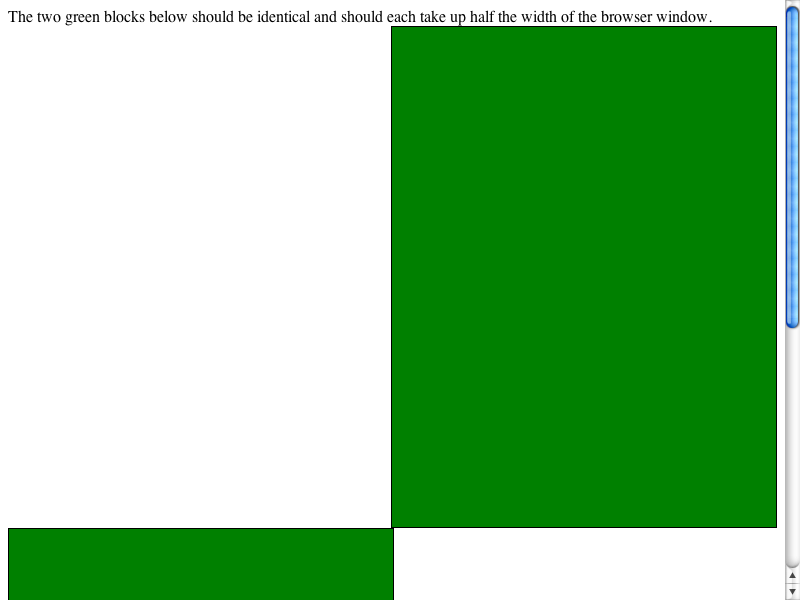
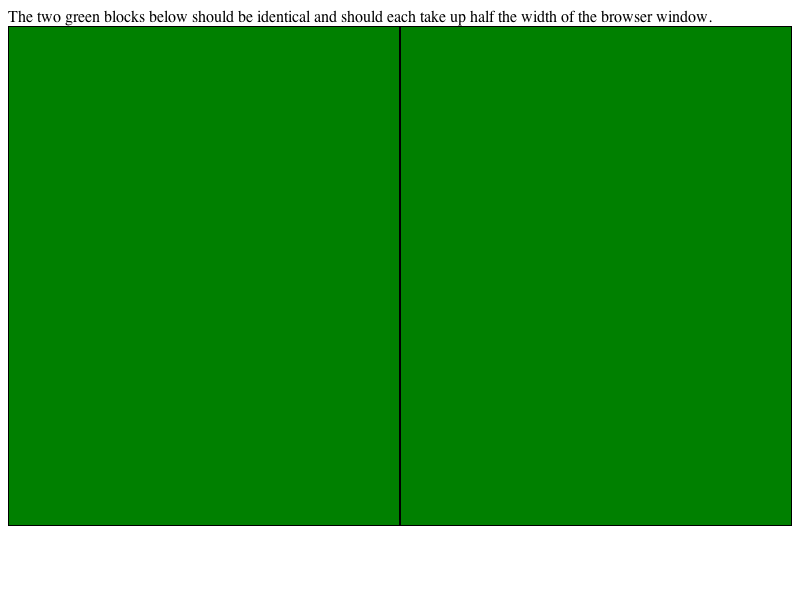
Update the test fast/overflow/004.html to make it match the test description and expected results. https://bugs.webkit.org/show_bug.cgi?id=31455
Patch by Kinuko Yasuda <kinuko@google.com> on 2009-11-19
Reviewed by Dan Bernstein.

* fast/overflow/004.html:
* platform/mac/fast/overflow/004-expected.checksum:
* platform/mac/fast/overflow/004-expected.png:
* platform/mac/fast/overflow/004-expected.txt:

git-svn-id: http://svn.webkit.org/repository/webkit/trunk@51178 268f45cc-cd09-0410-ab3c-d52691b4dbfc

diff --git a/LayoutTests/fast/overflow/004.html b/LayoutTests/fast/overflow/004.html
@@ -1,8 +1,8 @@
 <!DOCTYPE HTML PUBLIC "-//W3C//DTD HTML 4.0//EN">
 <body>
 The two green blocks below should be identical and should each take up half the width of the browser window.
-<div style="border:1px solid black; width:50%; height:500px; background-color:green; float:right"></div>
-<div style="border:1px solid black; width:50%; height:500px; background-color:green;overflow:hidden"></div> 
+<div style="border:1px solid black; width:50%; height:500px; background-color:green; float:right; -webkit-box-sizing:border-box;"></div>
+<div style="border:1px solid black; width:50%; height:500px; background-color:green; overflow:hidden; -webkit-box-sizing:border-box;"></div>
 </body>
 </html>
 
